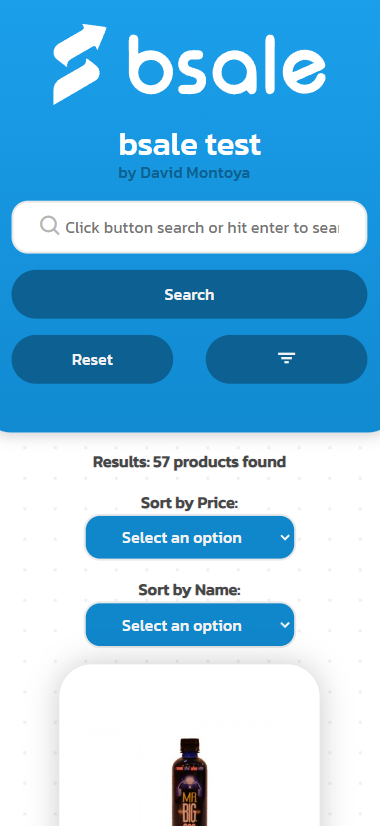
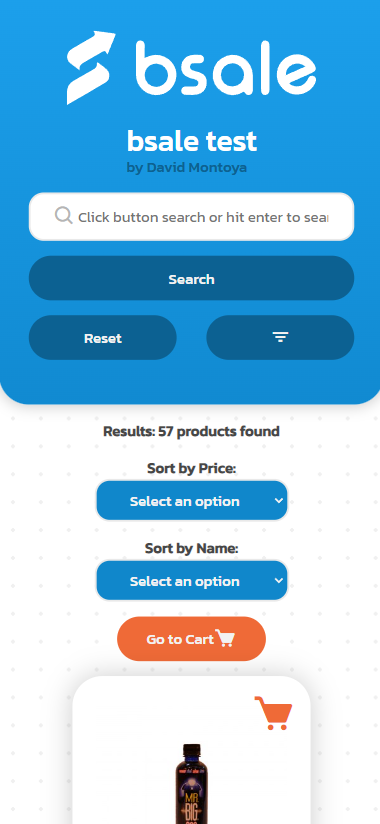
Add the add to cart feature

diff --git a/pages/render.js b/pages/render.js
@@ -1,15 +1,18 @@
 import { priceTransformer } from "../scripts/utils.js";
 import { ctgriesProvider, productsProvider } from "../scripts/context.js";
+import DomBuilder from "../scripts/dombuilder.js";
+import { homePage } from "./home.js";
 
 // Function that renders a card product
-const renderProduct = (product, status) => {
+const renderProduct = (product, status, inCart) => {
   return `
-  <li class="product_card flex flex-column">
-    <div class="product_image">
+  <li class="product_card flex flex-column" id=${product.id}>
+    <div class="product_image" >
       ${status === "loading" ? `<div class="skeleton-image"></div>` : ""}
       ${
         status === "success"
           ? `
+          <i class='bx bxs-cart bx-md cart-icon ${inCart ? "active" : ""}'></i>
         ${
           product.url_image
             ? `<img src=${product.url_image} alt="image_card"/>`
@@ -58,37 +61,35 @@ const renderCategory = (category) => {
 };
 
 // Function that displays product in DOM
-const displayProducts = (list, wrapper, rows, page) => {
+const displayProducts = (list, rows, page) => {
   page--;
   let start = rows * page,
     end = start + rows;
   let paginatedItems = list.slice(start, end);
-  if (paginatedItems.length === 0) {
-    wrapper.innerHTML = `<div class="flex items-center justify-center"><h3 style="color: var(--gray-200); font-size: 3rem">No results found. Try again</h3></div>`;
-  } else {
-    const { status } = productsProvider;
-    wrapper.innerHTML = paginatedItems
-      .map((elm) => renderProduct(elm, status))
-      .join("");
-  }
+  return paginatedItems;
 };
 
-// Function that handle the pagination
-const paginationEvent = () => {
-  let rows = 9,
-    page = 1;
-  const productWrapper = document.querySelector(".product_wrapper");
+/**
+ * It takes the products array from the productsProvider and divides it by the number of rows in the
+ * table. Then it creates a button for each page and adds an event listener to each button.
+ * When the button is clicked, the current page is set to the value of the button and the home page is
+ * reloaded
+ */
+const showPagination = () => {
+  const pagWrap = document.querySelector(".pagination_wrapper");
   const products = productsProvider.products;
+  const rows = 9;
+
+  // Quantity of buttons
   const quant =
     (Math.trunc(products.length / rows) - products.length / rows) * -1 >= 0.5
       ? Math.round(products.length / rows)
       : Math.round(products.length / rows) + 1;
-
-  const pagWrap = document.querySelector(".pagination_wrapper");
   let arrBtns = [];
   for (let i = 1; i <= quant; i++) {
     arrBtns.push(i);
   }
+  // Rendering the buttons of showPagination
   pagWrap.innerHTML = arrBtns
     .map((elm) => `<button class="btn btn-primary">${elm}</button>`)
     .join("");
@@ -97,10 +98,25 @@ const paginationEvent = () => {
     pagWrap.children[i].setAttribute("value", +pagWrap.children[i].innerHTML);
     pagWrap.children[i].addEventListener("click", (e) => {
       const value = e.target.getAttribute("value");
-      displayProducts(products, productWrapper, rows, value);
+      productsProvider.currPage = value;
+      DomBuilder("#root").load(homePage);
     });
   }
-  displayProducts(products, productWrapper, rows, page);
 };
 
-export { renderProduct, renderCategory, paginationEvent };
+// Check if the product is already in cart
+const isInCart = (elm) => {
+  const incart = JSON.parse(localStorage.getItem("incart"));
+  let onCart;
+  if (incart) onCart = incart.find((e) => e.id === elm.id);
+  onCart = onCart ? true : false;
+  return onCart;
+};
+
+export {
+  renderProduct,
+  renderCategory,
+  displayProducts,
+  showPagination,
+  isInCart,
+};

diff --git a/components/cart.js b/components/cart.js
@@ -1,0 +1,75 @@
+import { homePage } from "../pages/home.js";
+import { isInCart, renderProduct } from "../pages/render.js";
+import { productsProvider } from "../scripts/context.js";
+import DomBuilder from "../scripts/dombuilder.js";
+
+productsProvider.inCart = JSON.parse(localStorage.getItem("incart")) || [];
+
+/**
+ * It adds an event listener to each of the icons in the products page, and when clicked, it checks if
+ * the product is already in the cart, if not, it adds it to the cart, and if it is, it removes it from
+ * the cart
+ */
+const addToCart = () => {
+  const icons = document.querySelectorAll(".cart-icon");
+  productsProvider.products;
+  for (let elem of icons) {
+    elem.addEventListener("click", () => {
+      const id = +elem.parentElement.parentElement.id;
+      const selectedProduct = productsProvider.products.find(
+        (elem) => +elem.id === +id
+      );
+      let inCart = productsProvider.inCart;
+      const matchedProduct = inCart.find(
+        (elem) => +elem.id === +selectedProduct.id
+      );
+      if (!matchedProduct) {
+        elem.classList.add("active");
+        console.log("Adding to cart...");
+        productsProvider.inCart.push(selectedProduct);
+        localStorage.setItem("incart", JSON.stringify(productsProvider.inCart));
+        DomBuilder("#root").load(homePage);
+      } else {
+        elem.classList.remove("active");
+        console.log("removing of cart...");
+        productsProvider.inCart = productsProvider.inCart.filter((i) => {
+          return +i.id !== +matchedProduct.id;
+        });
+        localStorage.setItem("incart", JSON.stringify(productsProvider.inCart));
+        DomBuilder("#root").load(homePage);
+      }
+    });
+  }
+};
+
+/**
+ * It adds an event listener to the button that shows the cart, and when the button is clicked, it
+ * checks if the button has the class "active" and if it doesn't, it adds the class "active" to the
+ * button, changes the button's innerHTML to "Return", and renders the products in the cart. If the
+ * button has the class "active", it changes the button's innerHTML to "Go to cart", removes the class
+ * "active" from the button, and renders the home page
+ */
+const showCart = () => {
+  const btn = document.querySelector(".show-cart");
+  const section = document.querySelector(".product_wrapper");
+  const productsInCart = JSON.parse(localStorage.getItem("incart"));
+  const { status } = productsProvider;
+
+  btn.addEventListener("click", () => {
+    const isactive = btn.classList.contains("active");
+    if (!isactive) {
+      btn.classList.add("active");
+      btn.innerHTML = "Return";
+      section.innerHTML = productsInCart.map((elm) =>
+        renderProduct(elm, status, isInCart(elm))
+      );
+    }
+    if (isactive) {
+      btn.innerHTML = "Go to cart";
+      btn.classList.remove("active");
+      DomBuilder("#root").load(homePage);
+    }
+  });
+};
+
+export { addToCart, showCart };

diff --git a/pages/home.js b/pages/home.js
@@ -1,12 +1,19 @@
+import DomBuilder from "../scripts/dombuilder.js";
+import Loader from "../components/loader.js";
 import { headerBar } from "../components/header-bar.js";
 import { ctgriesProvider, productsProvider } from "../scripts/context.js";
-import DomBuilder from "../scripts/dombuilder.js";
-import { renderCategory, paginationEvent } from "./render.js";
-import Loader from "../components/loader.js";
+import {
+  renderCategory,
+  renderProduct,
+  displayProducts,
+  showPagination,
+  isInCart,
+} from "./render.js";
+import { addToCart, showCart } from "../components/cart.js";
 
 // Function that renders and display the Home Page
 const renderHomePage = () => {
-  const { products } = productsProvider;
+  const { products, status, currPage } = productsProvider;
   const { categories } = ctgriesProvider;
 
   return `
@@ -35,6 +42,7 @@ const renderHomePage = () => {
         </label>
       </div>
 
+      <div><button class="btn btn-secondary show-cart">Go to Cart<i class='bx bxs-cart bx-sm'></i></button></div>
 
     </div>
     <section class="products-section">
@@ -47,7 +55,15 @@ const renderHomePage = () => {
         ${categories.map((elm) => renderCategory(elm)).join("")}
         </ul>
       </div>
-      <ul class="product_wrapper flex wrap"></ul>
+      <ul class="product_wrapper flex wrap">
+        ${
+          products.length !== 0
+            ? displayProducts(products, 9, currPage)
+                .map((elm) => renderProduct(elm, status, isInCart(elm)))
+                .join("")
+            : `<div class="flex items-center justify-center"><h3 style="color: var(--gray-200); font-size: 3rem">No results found. Try again</h3></div>`
+        }
+      </ul>
     </section>
     <div class="pagination_wrapper flex">
       <button class="btn btn-primary js-btn-next"><i class='bx bxs-chevron-left'></i></button>
@@ -89,6 +105,7 @@ const resetEvent = () => {
       e.preventDefault();
       ctgriesProvider.currentCategory = null;
       productsProvider.querySearch = "";
+      productsProvider.currPage = 1;
       await productsProvider.fecthProducts();
       DomBuilder("#root").load(homePage);
     });
@@ -108,6 +125,7 @@ const filterByCtgryEvent = () => {
       DomBuilder("#root").load(homePage);
 
       ctgriesProvider.currentCategory = ctgryId;
+      productsProvider.currPage = 1;
       await productsProvider.fetchProductsByCtgry();
       DomBuilder("#root").load(homePage);
     });
@@ -174,11 +192,13 @@ export const homePage = {
     return renderHomePage();
   },
   addListeners() {
-    paginationEvent();
     filterByCtgryEvent();
     searchSubmitEvent();
     resetEvent();
     ShowFilters();
     SortBy();
+    addToCart();
+    showCart();
+    showPagination();
   },
 };

diff --git a/styles/components/products.css b/styles/components/products.css
@@ -42,6 +42,14 @@
   color: var(--gray-600);
 }
 
+.show-cart{
+  width: 10rem;
+}
+
+.show-cart.active{
+  background-color: var(--secondary-400);
+}
+
 label {
   display: flex;
   width: fit-content;
@@ -87,6 +95,31 @@ option {
   background-color: var(--gray-200);
   box-shadow: 0px 0px 30px 0px rgba(0,0,0,0.2);
   position: relative;
+}
+
+.cart-icon {
+  position: absolute;
+  top: 1rem;
+  right: 1rem;
+  cursor: pointer;
+  transition: transform 0.3s;
+  color: var(--gray-300);
+}
+
+.cart-icon:hover {
+  transform: scale(1.3);
+  color: var(--gray-400);
+}
+
+.cart-icon::before {
+  font-size: 3rem !important;
+  z-index: 5;
+}
+
+.cart-icon.active::before {
+  color: var(--secondary-300);
+  font-size: 3rem !important;
+  z-index: 5;
 }
 
 .product_card:hover {

diff --git a/styles/global/colors.css b/styles/global/colors.css
@@ -6,7 +6,7 @@
   --primary-500: #0c6192;
   --primary-600: #073855;
   --secondary-300: #EF6A37;
-  --secondary-400: #9c4522;
+  --secondary-400: #d8220a;
   --gray-100: #f2f2f2;
   --gray-200: #e9e9e9;
   --gray-300: #bbbbbb;

diff --git a/scripts/context.js b/scripts/context.js
@@ -42,6 +42,8 @@ async function fetchProductsByQuery(query) {
 
 const productsProvider = {
   products: [],
+  inCart: [],
+  currPage: 1,
   status: "pending",
   querySearch: "",
   fecthProducts,

diff --git a/README.md b/README.md
@@ -22,6 +22,7 @@ vanilla JavaScript that consumes data from the [API - Backend](https://github.co
 - Use the filters by category section to show products by category
 - Use the sort by select to list products by name or price
 - On mobile version display the categories list by click in the filter icon
+- Can add products to a shop cart handled by localStorage
 - When click on the logo reset all the products
 
 ## Run Locally
